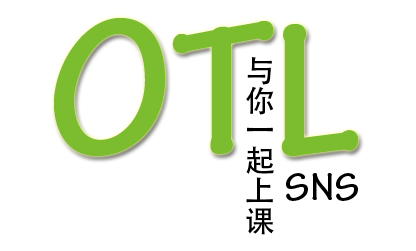
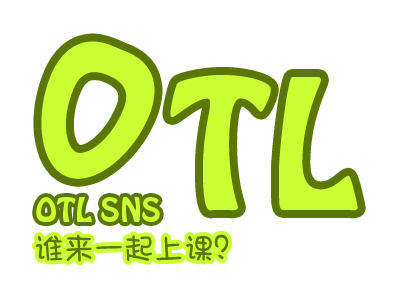
Heading changed. And most importantly, I understand how to change it. :)

diff --git a/css/index.css b/css/index.css
@@ -2,8 +2,17 @@
     width: 250px;
     padding: 30px;
     margin: 50px;
-    background-color: #ddd;
+    background-color: #5a7605;
+    border: 1px solid;
+    border-color: #cf3;
     float: right;
+    -webkit-border-radius: 10px;
+    -moz-border-radius: 10px;
+    border-radius: 10px;
+    color: #cf3;
+    -webkit-box-shadow: inset 0px 0px 5px 2px #ccff33;
+    -moz-box-shadow: inset 0px 0px 5px 2px #ccff33;
+    box-shadow: inset 0px 0px 5px 2px #ccff33;
 }
 
 #loginForm{
@@ -19,7 +28,7 @@ table{
 
 #otlDiv{
     float: left;
-    margin: 50px;
+    margin: 20px 60px 20px 60px;
 }
 
 #main_content{
@@ -28,18 +37,4 @@ table{
 
 #footer{
     margin-top: 350px;
-}
-
-#header{
-    color: #333;
-    padding: 5px;
-    font-size: 18px;
-    background: #bfd255; /* Old browsers */
-    background: -moz-linear-gradient(top, #bfd255 0%, #8eb92a 50%, #72aa00 51%, #9ecb2d 100%); /* FF3.6+ */
-    background: -webkit-gradient(linear, left top, left bottom, color-stop(0%,#bfd255), color-stop(50%,#8eb92a), color-stop(51%,#72aa00), color-stop(100%,#9ecb2d)); /* Chrome,Safari4+ */
-    background: -webkit-linear-gradient(top, #bfd255 0%,#8eb92a 50%,#72aa00 51%,#9ecb2d 100%); /* Chrome10+,Safari5.1+ */
-    background: -o-linear-gradient(top, #bfd255 0%,#8eb92a 50%,#72aa00 51%,#9ecb2d 100%); /* Opera 11.10+ */
-    background: -ms-linear-gradient(top, #bfd255 0%,#8eb92a 50%,#72aa00 51%,#9ecb2d 100%); /* IE10+ */
-    background: linear-gradient(top, #bfd255 0%,#8eb92a 50%,#72aa00 51%,#9ecb2d 100%); /* W3C */
-    filter: progid:DXImageTransform.Microsoft.gradient( startColorstr='#bfd255', endColorstr='#9ecb2d',GradientType=0 ); /* IE6-9 */
 }

diff --git a/css/heading.css b/css/heading.css
@@ -1,0 +1,65 @@
+#floatHeader a{
+    color: #cf3;
+    text-decoration: none;
+}
+
+#floatHeader a:hover{
+    color: #df3;
+    text-decoration: underline;
+}
+
+#floatHeader a.selected{
+    text-weight: bold;
+    color: #ff3;/* Yellow */
+}
+
+.transparent_class {
+    filter:alpha(opacity=60);
+    -moz-opacity:0.6;
+    -khtml-opacity: 0.6;
+    opacity: 0.6;
+}
+
+#floatHeader{
+    position: fixed;
+    top: 0px;
+    width: 100%;
+    height: 20px;
+    padding: 5px 0px 8px 0px;
+    -moz-box-shadow: 0 0 5px 5px #888;
+    -webkit-box-shadow: 0 0 5px 5px #888;
+    box-shadow: 0 0 5px 5px #888;
+}
+
+#heading-content{
+    margin: 0 auto;
+    width: 950px;
+    z-index: 1;
+    z-index: 1;
+    position: relative;
+    color: #ffc;
+    font-family: 'Julee', cursive;
+    font-size: 17px;
+}
+
+#heading-back{
+    background-color: #010;
+    width: 100%;
+    height: 33px;
+    position: fixed;
+    left: 0px;
+    top: 0px;
+}
+
+.heading-nav{
+    float: left;
+}
+
+.heading-span{
+    margin: 0px 5px 0px 5px;
+    float: left;
+}
+
+.heading-ava{
+    float: right;
+}

diff --git a/css/screen.css b/css/screen.css
@@ -41,7 +41,7 @@ p .left {margin:1.5em 1.5em 1.5em 0;padding:0;}
 .right {float:right !important;}
 p .right {margin:1.5em 0 1.5em 1.5em;padding:0;}
 a:focus, a:hover {color:#09f;}
-a {color:#06c;text-decoration:underline;}
+a {color:#6a3;text-decoration:underline;}
 blockquote {margin:1.5em;color:#666;font-style:italic;}
 strong, dfn {font-weight:bold;}
 em, dfn {font-style:italic;}

diff --git a/css/main.css b/css/main.css
@@ -9,7 +9,7 @@ body
 
 #page
 {
-	margin-top: 5px;
+	margin-top: 50px;
 	margin-bottom: 5px;
 	background: white;
 	border: 1px solid #7cbd2f;

diff --git a/protected/views/site/pages/about.php b/protected/views/site/pages/about.php
@@ -7,3 +7,101 @@ $this->breadcrumbs=array(
 <h1>About</h1>
 
 <p>This is a "static" page. It is used to show a simple UI.</p>
+I need this to be very very long.
+
+<br>
+Project 0 - Setting up Minix (10% of project score)
+
+The project is due on Oct. 7, 2011, 23:59:59. You may need 4~20 hours to do this homework.
+
+Project Goals
+
+The goals of this project are:
+
+to install a Minix you can use in future projects
+to familiarize yourself with the system
+to build and (slightly) modify the Minix kernel
+Administrative Information
+
+This is an individual project. Every student must show that he or she is able to install and modify Minix. Also, note that a successful completion of this project is important, since it lays the foundation for the remaining projects.
+
+Step 1: Install the system
+
+It is strongly recommended that you use a VMware Product for your machine as appropriate. Although you may try other VM or PC simulator such as Bochs, Qemu, Parallels, Virtual Box, etc.
+
+We provided a VMWare snapshot that you can work on. However, you are encouraged trying to install Minix from scratch, i.e., obtain an image to install Minix from the Minix download page. For this course, we will use version 3.1.7. For installation instructions, see this page.
+
+Install VMware and Minix:
+
+Download VMware for free. Win/Linux=VMware player. (free version); Mac=VMwareFusion. (select "Get Free Trial" for now)
+Install VMware
+Download the Minix 3.1.7 VMware image.
+Unzip it. You will get a folder "minix", containing several files, including a .vmx file.
+Start VMware.
+Select "Open" (Mac=bottom menu bar, Win/Linux=Commands section in window).
+Browse to the minix folder you just unzipped and select the .vmx file.
+Select "Do Not" upgrade.
+Select "I copied it".
+Minix should now attempt to boot.
+Login as root, no password.
+You will now have access to several virtual terminals of your Minix OS, use (Mac=fn+option+F1/F2/F3) or (Win/Linux=Alt+F1/F2/F3) to see them.
+To logout, type exit or "Cntl+D".
+Quit/Shutdown Minix:
+
+Must be logged in as root: type shutdown.
+To reboot, type boot at prompt.
+To continue shutdown, type off at prompt. Or you can now suspend this VM, or close and exit if desired: (Win/Linux=WMwarePlayer->Troubleshoot->PowerOff and Exit) (Mac=VirtualMachine->PowerOff).
+To start again: Run VMware, click on your Minix virtual machine.
+If that does not work, restart Minix:(Win/Linux=VMwarePlayer->Troubleshoot->reset) (Mac=VirtualMachine->Reset or ->PowerOn).
+Use ftp to easily transfer files to/from Minix and your host OS:
+
+Start from Minix:
+Logged in as root, you can now add a user with adduser command. Set password with passwd command.
+Exit minix as root; exit
+Login as your new user.
+You should be at your new user's home directory: pwd
+Make a directory for your work: mkdir proj1
+Create a sample file in there called 'test_on_minix.txt', using some text editor ('vi' or 'mined' (use ctrl+x to exit mined))
+Get Minix's IP address: ifconfig, this will be your current minix_ip_address
+Still logged in as root, set up telnet and ftp to run in the background on Minix so you can connect to it. Or manually start ftp server at Minix: tcpd ftp /usr/bin/in.ftpd
+Make sure you are connected to the outside world: ping www.sjtu.edu.cn
+Problems?
+Try: Setting VMware to use NAT rather than bridged, and restart Minix (see instructions above for shutdown). (Mac=VirtualMachine->NetworkAdapter->NAT; Win/Linux= Devices->NetworkAdapter->NAT) This seems to solve most problems.
+Try: Setting your home router to use DHCP, and restart Minix (see instructions above for shutdown).
+Now, from your host machine
+Open a terminal window and cd to your class work directory.
+Create a sample file in there called 'test_on_host.txt', using some text editor.
+Connect to Minix via ftp: ftp minix_ip_address
+Login as the user and password you just created.
+Check your location, you should be at the user's home dir. In your ftp window, type pwd. Now cd to your work directory: cd proj1.
+Use ftp to move your files around. Use the commands get and put (or mget mput for multiple files) to push and pull your files. Try it:
+get test_on_minix.txt
+put test_on_host.txt
+Check both places and verify the files have been transferred.
+Type quit to exit ftp and disconnect from Minix.
+Step 2: Configure the system
+
+Once you have installed Minix, there are a few things that you want to do to make the system more usable. The first is to get the network to work. The way how networking is set up depends on your target platform. For Qemu, you will probably want to use the user mode stack. The user mode stack does not require root privileges and should run basically out of the box.
+
+Once the network is active, you might want to install a few other applications to make your life easier. For example, you might want an editor (such as vim), openssh/ncftp (to exchange files between Minix and the outside world), or a new shell (such as bash). Also, check out the source code of Minix that is located in /usr/src and get a feeling for which parts of the OS are located under which directories. Note that openssh is already installed in the provided VMWare image, so you can readily ssh into Minix.
+
+Once you have played around a little bit and have become more familiar with Minix, answer the following questions:
+
+Provide a brief description of your installation, including whether on a simulator (and if so, which one) or on what hardware, and if on actual hardware, whether you have a dedicated machine or a machine that multi-boots Minix and other operating systems. Also (whether on real hardware or on a simulator), the size of your disk and the amount of memory available to the OS.
+Why does a new installation of Minix come with an existing user called "ast"?
+What is the name of the application (utility) that you used to install new software in Minix?
+What is the command that you have to issue to rebuild the kernel and install it?
+What is the kernel source file that holds the Minix banner string (i.e., "Minix 3.1.X ... Copyright ...") that is shown when Minix boots up?
+What is the name of the Minix system call with the number 33 (decimal), and how did you determine this information?
+The answers to these questions have to be written in a plain ASCII file called discussion.txt, which you will need to submit as part of this lab (see below for instructions).
+
+Step 3: Modify and rebuild the kernel
+
+At this point, it is time to rebuild the kernel. To this end, switch to the directory /usr/src/tools and invoke make. Check the options to see how a kernel can be rebuilt and installed. A small note: Once you have installed your kernel and restarted Minix, it is important that you select the third option "Start custom kernel" in the start screen. Otherwise, Minix won't run your freshly built kernel.
+
+When you are able to build a new kernel, it is finally time to make a small OS modification (and enter the realm of kernel hacking :-) ). First, however, you have to make a clean copy of the kernel source tree. This is necessary for two reasons. First, when you later make changes that do not work and you want to have a reference that you can look at, the source is already there. Second, and more importantly, you need such a clean reference to create patches (see below). So, just issue a cp -r /usr/src /usr/src.clean, and you are good to continue.
+
+For the kernel modification itself, I want you to print out the name of every file that is being executed by the OS. To this end, you should locate the kernel source file that implements the exec system call. Then, at the right point, you should insert a printf statement that outputs the string "executing" followed by the name of the file that is being executed. That is, when you type "ls" in the shell, you should see the string "executing ls" being printed to the console. This should actually require only a single line to be added, but it provides you with some (very basic) debugging facilities. Once you have done your modification, rebuilt the kernel, install it, and reboot the system. When you were successful, you should now see a series of output statements that show you which programs the operating systems launches.
+
+Tip: take a look at How to add a system call and System call sequence to better understand how system calls are serviced in Minix OS. Once you understand the mechanism, you can easily locate the place to inject code.
+nel running. Specifically, we want to see that you invoke certain commands (e.g., "ls", "pwd", and "w") and the kernel is printing the file names for the executables.

diff --git a/protected/views/layouts/main.php b/protected/views/layouts/main.php
@@ -8,41 +8,49 @@
 	<link rel="stylesheet" type="text/css" href="<?php echo Yii::app()->request->baseUrl; ?>/css/screen.css" media="screen, projection" />
 	<link rel="stylesheet" type="text/css" href="<?php echo Yii::app()->request->baseUrl; ?>/css/print.css" media="print" />
     <link rel="stylesheet" type="text/css" href="<?php echo Yii::app()->request->baseUrl; ?>/css/buttons.css" />
+    <link rel="stylesheet" type="text/css" href="<?php echo Yii::app()->request->baseUrl; ?>/css/heading.css" />
 	<!--[if lt IE 8]>
 	<link rel="stylesheet" type="text/css" href="<?php echo Yii::app()->request->baseUrl; ?>/css/ie.css" media="screen, projection" />
 	<![endif]-->
 
 	<link rel="stylesheet" type="text/css" href="<?php echo Yii::app()->request->baseUrl; ?>/css/main.css" />
 	<link rel="stylesheet" type="text/css" href="<?php echo Yii::app()->request->baseUrl; ?>/css/form.css" />
+    <link href='http://fonts.googleapis.com/css?family=Julee' rel='stylesheet' type='text/css'>
 
 	<title><?php echo CHtml::encode($this->pageTitle); ?></title>
 </head>
 
 <body>
+    <div id="floatHeader">
+        <div id="heading-back" class="transparent_class"></div>
+        <div id="heading-content">
+            <img src="<?php echo Yii::app()->request->baseUrl; ?>/images/logo.png" style="float: left; margin-right: 20px; " />
+            <div class="heading-nav">
+                <a href="../" class="selected">Home</a>
+            </div>
+            <span class="heading-span">|</span>
+            <div class="heading-nav">
+                <a href="#">Profile</a>
+            </div>
+            <span class="heading-span">|</span>
+            <div class="heading-nav">
+                <a href="#">Friend Feeds</a>
+            </div>
+            <span class="heading-span">|</span>
+            <div class="heading-nav">
+                <a href="#">Message</a>
+            </div>
+            <span class="heading-span">|</span>
+            <div class="heading-nav">
+                <a href="#">Logout</a>
+            </div>
+            <div class="heading-ava">
+                <img src="<?php echo Yii::app()->request->baseUrl; ?>/images/ava.jpeg" />
+            </div>
+        </div><!-- End of heading-content -->
+    </div><!-- End of floatHeader -->
 
 <div class="container" id="page">
-
-	<div id="header">
-		<div id="logo"><?php echo CHtml::encode(Yii::app()->name); ?></div>
-	</div><!-- header -->
-
-	<div id="mainmenu">
-		<?php $this->widget('zii.widgets.CMenu',array(
-			'items'=>array(
-				array('label'=>'Home', 'url'=>array('/site/index')),
-				array('label'=>'About', 'url'=>array('/site/page', 'view'=>'about')),
-				array('label'=>'Contact', 'url'=>array('/site/contact')),
-				array('label'=>'Login', 'url'=>array('/site/login'), 'visible'=>Yii::app()->user->isGuest),
-				array('label'=>'Logout ('.Yii::app()->user->name.')', 'url'=>array('/site/logout'), 'visible'=>!Yii::app()->user->isGuest)
-			),
-		)); ?>
-	</div><!-- mainmenu -->
-	<?php if(isset($this->breadcrumbs)):?>
-		<?php $this->widget('zii.widgets.CBreadcrumbs', array(
-			'links'=>$this->breadcrumbs,
-		)); ?><!-- breadcrumbs -->
-	<?php endif?>
-
 	<?php echo $content; ?>
 
 	<div id="footer">

diff --git a/protected/views/layouts/index.php b/protected/views/layouts/index.php
@@ -17,9 +17,6 @@
 
 <div class="container" id="page">
     <div id="main_content">
-        <div id="header">
-            <br>
-        </div><!-- header -->
 	    <?php echo $content; ?>
         <div id="otlDiv">
             <img src="<?php echo Yii::app()->request->baseUrl; ?>/images/otl.png" />

diff --git a/protected/views/site/index.php b/protected/views/site/index.php
@@ -1,5 +1,5 @@
 <?php $this->pageTitle=Yii::app()->name; ?>
-<a href="./page?view=about">
+<a href="<?php echo Yii::app()->request->baseUrl; ?>/index.php/site/page?view=about">
     This is only a temporary link to About page.
 </a>
 <div id="loginDiv">
